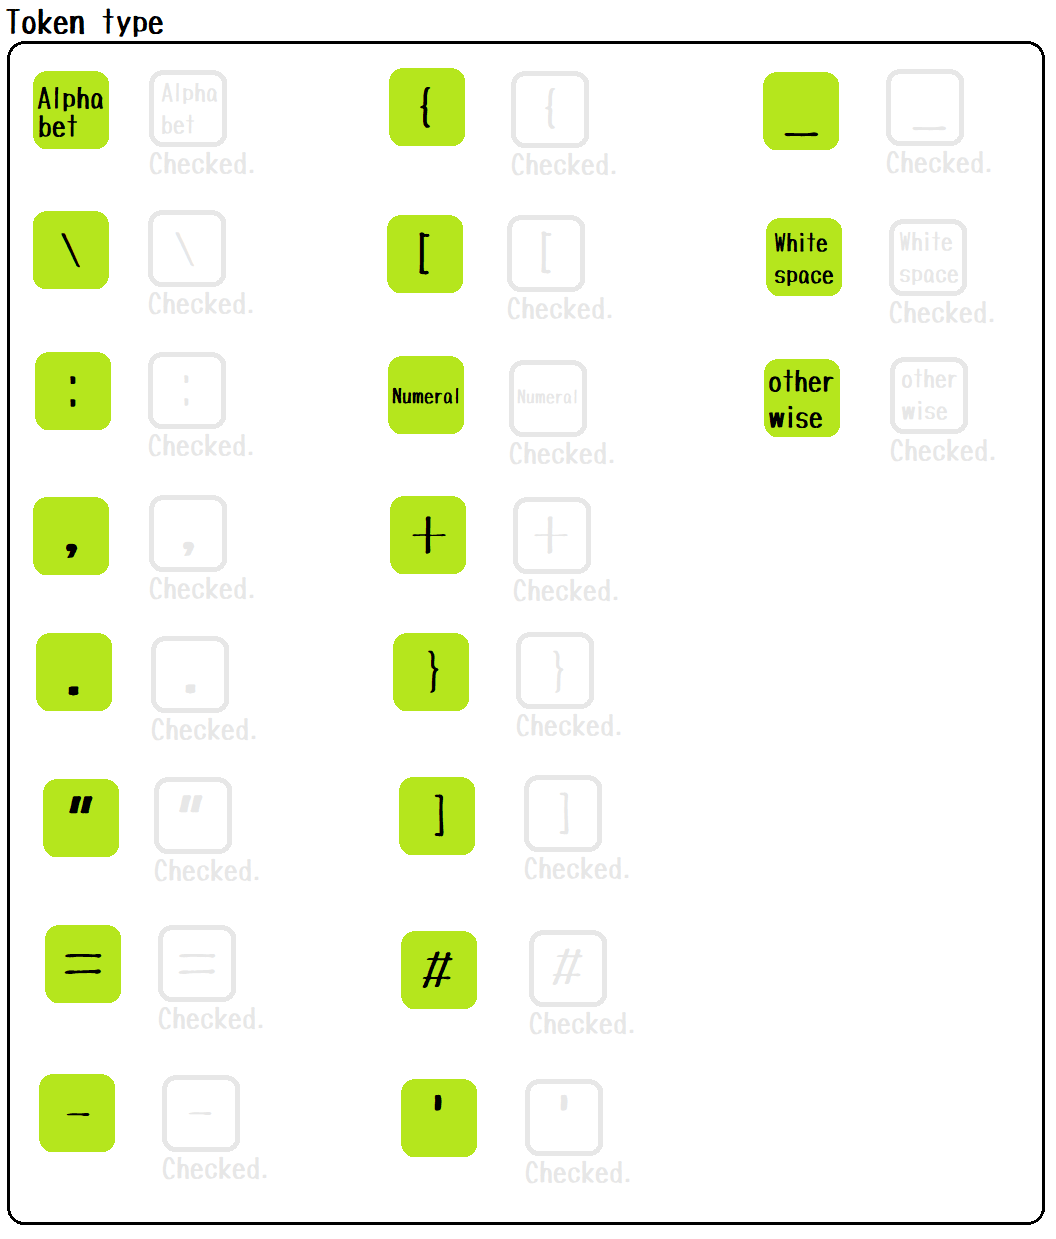
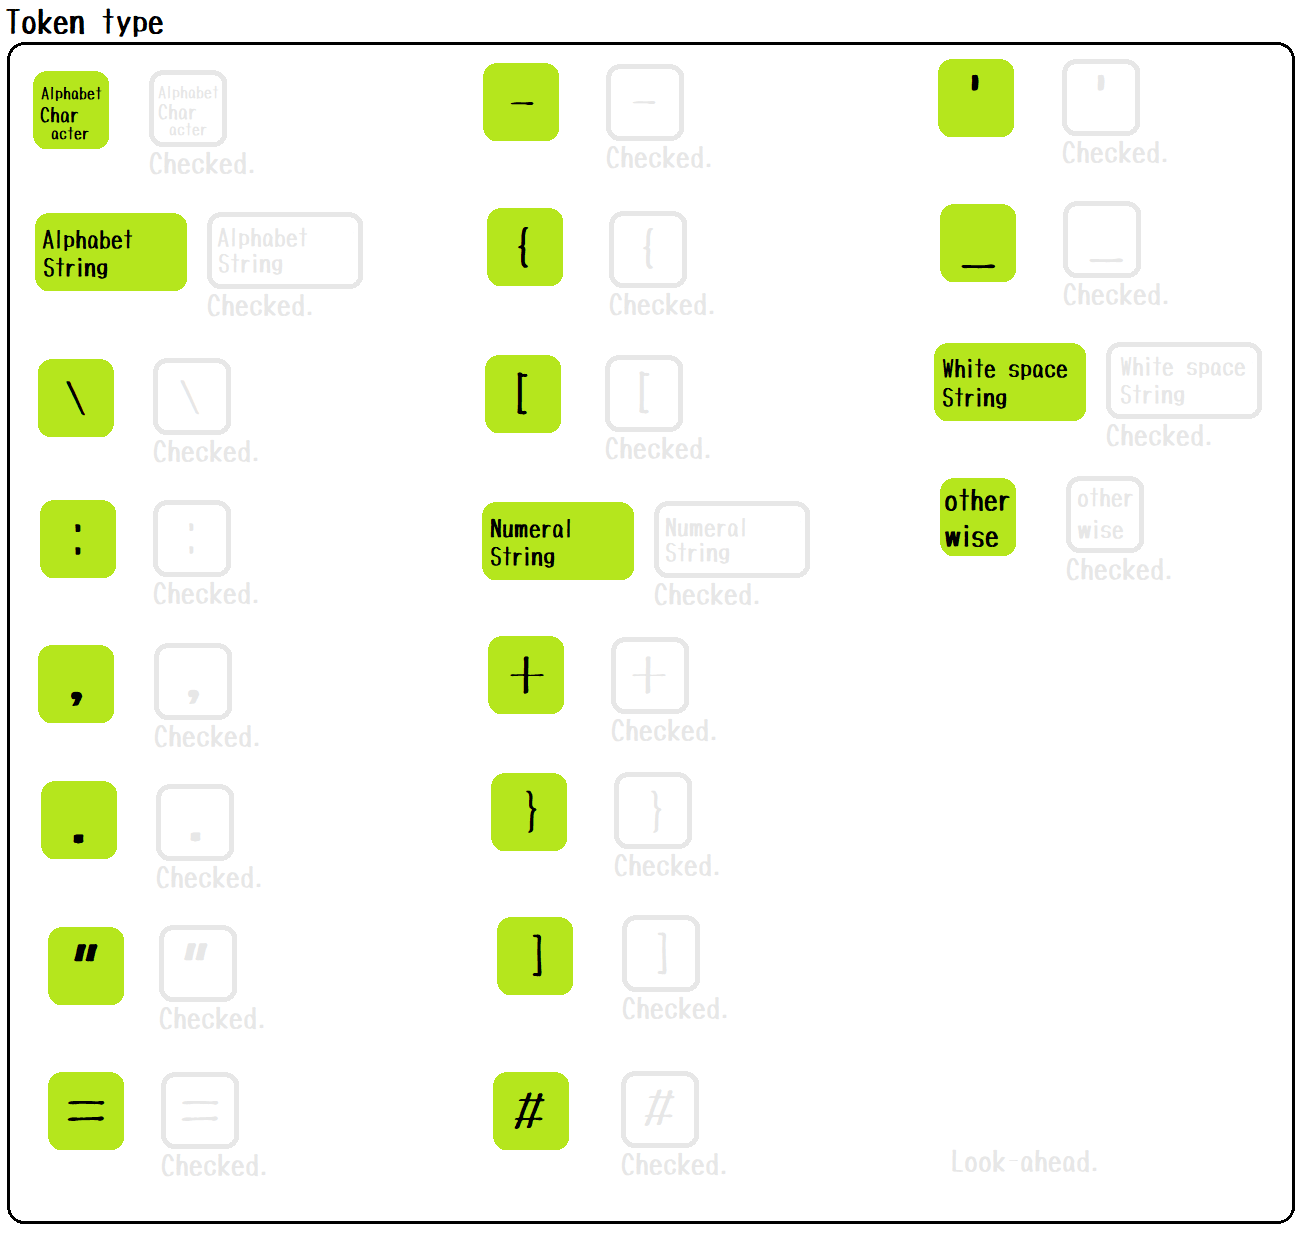
Alphabet character

diff --git a/src/parser/phase100/lexical_parser.rs b/src/parser/phase100/lexical_parser.rs
@@ -5,6 +5,7 @@ use std::fmt;
 
 #[derive(Debug)]
 enum State {
+    AlphabetCharacter,
     AlphabetString,
     First,
     NumeralString,
@@ -89,6 +90,11 @@ impl LexicalParser {
         let ch0 = chars.0.unwrap();
         let column_number = i + 1;
         match self.state {
+            State::AlphabetCharacter => {
+                self.flush(column_number);
+                self.buf.push(*ch0);
+                self.state = State::First;
+            }
             State::AlphabetString => {
                 self.flush(column_number);
                 self.buf.push(*ch0);
@@ -114,15 +120,21 @@ impl LexicalParser {
                                 'A'..='Z' | 'a'..='z' => {
                                     self.state = State::AlphabetString;
                                 }
-                                _ => {
-                                    self.state = State::First;
-                                }
+                                _ => {}
                             }
                         }
                     }
                     // \
                     '\\' => {
                         self.buf_token_type = TokenType::Backslash;
+                        if let Some(ch1) = chars.1 {
+                            match ch1 {
+                                'A'..='Z' | 'a'..='z' => {
+                                    self.state = State::AlphabetCharacter;
+                                }
+                                _ => {}
+                            }
+                        }
                     }
                     // :
                     ':' => {
@@ -163,9 +175,7 @@ impl LexicalParser {
                                 '0'..='9' => {
                                     self.state = State::NumeralString;
                                 }
-                                _ => {
-                                    self.state = State::First;
-                                }
+                                _ => {}
                             }
                         }
                     }
@@ -201,9 +211,7 @@ impl LexicalParser {
                                 '\t' | ' ' => {
                                     self.state = State::WhiteSpaceString;
                                 }
-                                _ => {
-                                    self.state = State::First;
-                                }
+                                _ => {}
                             }
                         }
                     }
